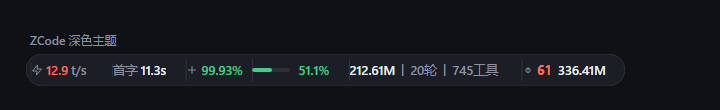
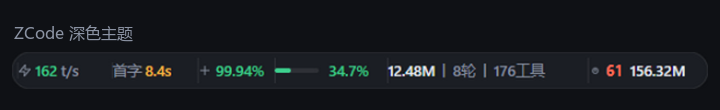
文档与版本：口径说明重写、示意图更新、版本号升到 1.1.0
- README「数据口径」重写速度与首字两段（纯生成速度口径、覆盖率精度、turn 级首字与
  两段拆分），新增「停滞时保留上一轮」；显示项表格与颜色阈值按新口径更新，因果链
  示例改用新数字。
- CHANGELOG 增 1.1.0 条目，按「速度改纯生成口径 / 停滞保留上一轮 / 视觉 / 测试」四节
  记录，并注明 inject-main.cjs 需重装、其余两文件热更新。
- docs 示意图（SVG + PNG，深/浅两版）数字更新为 v1.1 口径：
  162 t/s · 首字 8.4s · 缓存 99.94% · 上下文 34.7%（原图仍是端到端口径的 12.9 t/s，
  与实物不符）。PNG 由浏览器渲染更新后的 SVG 得到，构图与旧图一致。
- install.py / usage_mcp.py 版本号 1.0.0 → 1.1.0（安装器写入的 config.plugin_version
  与 MCP serverInfo 跟随）。

Changed region(s): [[0.1528, 0.5727, 0.9778, 0.7091], [0.0, 0.2455, 0.1833, 0.4364], [0.0, 0.5727, 0.1222, 0.7091]]

diff --git a/usage_mcp.py b/usage_mcp.py
@@ -92,7 +92,7 @@ def main():
                         "protocolVersion", PROTOCOL_VERSION
                     ),
                     "capabilities": {"tools": {}},
-                    "serverInfo": {"name": "Zcode-Status-TypeBar", "version": "1.0.0"},
+                    "serverInfo": {"name": "Zcode-Status-TypeBar", "version": "1.1.0"},
                 },
             )
         elif method == "tools/list":

diff --git a/install.py b/install.py
@@ -26,7 +26,7 @@ from pathlib import Path
 from typing import NoReturn
 
 PLUGIN_NAME = "Zcode-Status-TypeBar"
-PLUGIN_VERSION = "1.0.0"
+PLUGIN_VERSION = "1.1.0"
 PLUGIN_FILES = ("inject-main.cjs", "overlay.js", "zusage.py", "usage_mcp.py")
 INJECT_MARKER = "[zusage] load failed"
 

diff --git a/README.md b/README.md
@@ -1,15 +1,16 @@
 # Zcode-Status-TypeBar
 
 给 ZCode 桌面客户端用的本地 token 用量状态条：在聊天输入框正下方显示一条悬浮胶囊条，
-实时展示最近一次请求的速度与首字延迟、缓存命中、上下文占用、会话累计 token 与轮次、
-当前会话错误、今日合计。另附带一个只读 MCP 工具 `token_usage`，可以直接在对话里查询用量。
+实时展示本轮的生成速度与首字延迟、缓存命中、上下文占用、会话累计 token 与轮次、
+当前会话错误、今日合计；一轮结束后停滞时保留上一轮数据并标注相对时间。
+另附带一个只读 MCP 工具 `token_usage`，可以直接在对话里查询用量。
 
 <p align="center">
   <img src="docs/statusbar-dark.png" alt="深色主题下的状态条" width="100%">
   <img src="docs/statusbar-light.png" alt="浅色主题下的状态条" width="100%">
 </p>
 
-<p align="center"><sub>上图由本机真实数据渲染：速度 12.9 t/s、首字 11.3s、缓存命中 99.93%、上下文 51.1%</sub></p>
+<p align="center"><sub>上图为示意数据（深色 / 浅色主题）：生成速度 162 t/s、首字 8.4s、缓存命中 99.94%、上下文 34.7%</sub></p>
 
 Windows 客户端注入式工具，通过改写 ZCode 的 `app.asar` 生效。
 
@@ -91,16 +92,25 @@ ZCode 把每次模型请求的用量写进 `~/.zcode/cli/db/db.sqlite`。`zusage
 
 ## 数据口径：几个容易误读的地方
 
-**速度是端到端的。** `输出 tokens ÷ 该请求总耗时`，含首字等待与工具往返。它反映你的真实
-等待体感，数值比「纯生成速度」小。悬停里同时给出纯生成速度（首 token 之后到完成）做对照：
-两者差得远，就说明时间花在了首字而不是生成上。
+**速度是纯生成速度。** `输出 tokens ÷ 生成时长`，生成时长取 `first_token_at → completed_at`，
+只累加模型真正吐字的时间窗 —— 首字等待与工具往返不计入。这与 Claude Code 等 CLI agent 的
+tok/s 同口径。v1.0 用的是端到端口径（输出 ÷ 请求总耗时），二十秒级的首字等待和几十次工具
+往返全摊进分母，实测同一轮能低 2~13 倍（端到端 11.1 t/s vs 真实生成 151.3 t/s），看着像
+模型很慢。端到端值仍保留在悬停里做对照 —— 它回答的是另一个问题：这一轮总共等了多久才拿到这些字。
 
-> 上下文越大、输出通常越少。上下文几十万 token、输出只有几百时，分子小分母大，比值会
-> 系统性偏低，看起来「很慢」但纯生成速度并不低。
+> 精度：全库约 28% 的 completed 行没有 `first_token_at`（网关对部分小请求不写该列，缺失行
+> 的 output 都 ≤ 300），按可算行加权，output 覆盖率实测 85~97%；悬停里给出本轮的可算请求数
+> 与覆盖率。本轮所有请求都缺时间戳时退回端到端口径并明确标注，不让它冒充生成速度。
 
-**首字延迟用时间戳现算。** 客户端写 `time_to_first_token_ms` 列并不可靠 —— 实测约三分之一的
-completed 行该列为 NULL，直接读会频繁显示成横杠。改用 `first_token_at − started_at`，
-那列只作兜底。
+**首字是 turn 级的。** 从你发消息到屏幕上第一个字，含客户端准备段（读文件 / 拼上下文 /
+启动技能，实测常 6~9 秒）。悬停里拆成「模型首包 + 客户端准备」两段，便于分辨慢在服务端
+还是本地。取值优先 `turn_usage.time_to_first_token_ms`（实测 100% 填充，语义即
+`first_token_at − started_at`）；轮进行中该表还没落行时，退回本轮第一条请求现算并标注是近似值。
+
+**停滞时保留上一轮。** 一轮跑完超过 2 分钟没有新请求，条面照常显示上一轮的速度 / 首字 /
+缓存，末尾追加相对时间（如「5分钟前」）；客户端清空焦点会话（activeTaskId 置空）时，泵与
+渲染端各自兜底到该窗口最近会话，而不是退化成零值、把整项藏掉。相对时间按绝对时刻现算并定期
+自刷新，所以它自己会从「5分钟前」走到「8分钟前」。
 
 **缓存命中率保留两位小数。** 实测连续对话里命中率在 99.2%–99.98% 之间，99.968% 用
 `toFixed(0)` 或 `toFixed(1)` 都会变成「100%」—— 而命中 100% 在物理上不可能（每轮总有
@@ -231,24 +241,30 @@ python install.py --asar "D:\Apps\ZCode\resources\app.asar"
 
 | 条目 | 显示内容 | 悬停 |
 | --- | --- | --- |
-| 速度 · 首字 · 缓存 | 最近一次完成请求的输出速度（t/s）、首字延迟、缓存命中率 | 纯生成速度（首字之后）、单次耗时、命中/输入 token、模型名 |
+| 速度 · 首字 · 缓存 | 本轮生成速度（t/s）、首字延迟、缓存命中率；停滞时追加相对时间 | 可算请求数与输出覆盖率、端到端对照、模型首包 + 客户端准备拆分、命中/输入 token、模型名 |
 | 上下文 | 当前会话上下文占窗口的百分比 + 微进度条 | 已用 token / 窗口容量；超限被拒时红色闪烁并弹出提示 |
 | 会话累计 | 当前会话累计 tokens、轮数、工具调用次数 | input/output/cache read/思考、重试、代码变更行数 |
 | 会话错误 | 当前会话的失败次数 | 轮次报错 / 工具失败 / 重试分别计数，并按工具列出 |
 | 今日合计 | 今天所有会话的 token 消耗 | input/output/cache read、请求数、重试 |
 
-前四项的数值各带三档配色（绿 / 黄 / 红），阈值按端到端口径标定。
+第一项的三个数值与第四项各带三档配色（绿 / 黄 / 红），其余为中性色：
+
+- **速度**：≥100 t/s 绿 · 50–100 黄 · <50 红（按纯生成速度标定；主流模型实测中位 160–180 t/s）；
+- **首字**：≤5s 绿 · 5–15s 黄 · >15s 红；
+- **缓存命中**：≥90% 绿 · 50–90% 黄 · <50% 红。
 
 **第一项是因果链，并排看才能定位瓶颈：**
 
 ```
-缓存命中 99.93%  →  几乎不用重算上下文  →  首字 11.3s  →  端到端 12.9 t/s
+缓存命中 99.94%  →  几乎不用重算上下文  →  首字 8.4s  →  生成 162 t/s
 ```
 
-- 命中率正常但首字仍长 → 上下文本身太大（几十万 token），换长上下文模型或压缩会话才有用；
-- 命中率明显下降 → 首字必然被拖长，因为模型得现场重算整段上下文。
+- 命中率正常但首字仍长 → 上下文本身太大（几十万 token），换长上下文模型或压缩会话才有用
+  （实测首字与上下文总量正相关：13 万 token 约 5s，60 万 token 可到 30s+）；
+- 命中率明显下降 → 首字必然被拖长，因为模型得现场重算整段上下文；
+- 首字长但生成速度正常 → 时间花在等待而不是吐字，别把「等」当成「模型慢」。
 
-其余口径（端到端速度、两位小数、不含主动中断）见前文「数据口径」一节。
+其余口径（纯生成速度、两位小数、不含主动中断、停滞保留）见前文「数据口径」一节。
 
 子代理的逐个明细仍可通过 MCP 工具查询（`token_usage` 的 `session:<id前缀>` 与
 `workspace:<关键词>`），底栏不再单列子代理项。

diff --git a/CHANGELOG.md b/CHANGELOG.md
@@ -2,6 +2,47 @@
 
 本项目遵循 [语义化版本](https://semver.org/lang/zh-CN/)。
 
+## [1.1.0]
+
+底栏指标口径重定 + 停滞保留上一轮 + 视觉梳理。已安装用户更新文件即可（overlay.js 与
+zusage.py 由泵热更新）；`inject-main.cjs` 的改动需要重新运行 `install.bat` 生效。
+
+### 速度改纯生成口径（本次的主改动）
+
+- 速度从端到端（输出 ÷ 请求总耗时）改为**纯生成速度**（输出 ÷ 首 token 到完成的时长），
+  与 Claude Code 等 CLI agent 的 tok/s 同口径。旧口径把二十秒级的首字等待和几十次工具
+  往返全摊进分母，实测同一轮低 2~13 倍（端到端 11.1 t/s vs 真实生成 151.3 t/s），
+  看上去像模型很慢。
+- 逐请求的 `first_token_at` 约 28% 缺失（网关对部分小请求不写该列），改为**按可算行加权**
+  并返回 output 覆盖率（实测 85~97%），悬停里给出可算请求数与覆盖率；全部缺失时退回端到端
+  口径并明确标注，不让它冒充生成速度。
+- 首字改为 **turn 级**（你发消息 → 屏幕上第一个字，含客户端准备段），悬停里拆成
+  「模型首包 + 客户端准备」，便于分辨慢在服务端还是本地；轮进行中 `turn_usage` 还没落行时
+  退回本轮第一条请求现算并标注近似。
+- 阈值随口径重标：速度 ≥100 t/s 绿 · 50–100 黄 · <50 红；首字 ≤5s 绿 · 5–15s 黄 · >15s 红。
+
+### 停滞保留上一轮
+
+- 一轮完成后超过 2 分钟没有新请求，条面照常显示上一轮的速度 / 首字 / 缓存，末尾追加
+  相对时间（「5分钟前」）；此前长尾会话走到轻量快照路径时速度整项消失。
+- 轻量快照补上 `last` 数据块（单行索引查询 ~0.01ms，不破坏瘦身）；相对时间按绝对时刻
+  现算并每 15s 自刷新，会自己从「5分钟前」走到「8分钟前」。
+- 客户端在一轮结束时清空焦点会话（activeTaskId 置空），泵记住每窗口最近一次非空会话
+  兜底（`mine_idle` 标记），渲染端同款兜底 —— "停滞就什么都不显示"的两条路径都堵上。
+- 会话没有任何已完成请求时，第一项显示 `–` 占位而不是整项隐藏。
+
+### 视觉
+
+- 速度主数字单独加粗一档；首字数值按三档着色（原先只有速度与缓存有颜色）。
+- 停滞标注用弱化小字（`.ago`），与数据本身区分开。
+
+### 测试
+
+- 新增 `tests/render_test.js`：从 `overlay.js` 抽取真实渲染段（非副本）在 Node 里跑
+  真实 payload，覆盖活跃 / 停滞（含旧后端与绝对时刻两路）/ mine_idle / 空会话 / 旧后端
+  兼容 / 中英文 / 项开关共 10 个用例。语法检查测不出运行时错误（v31 变量遮蔽事故即如此），
+  这个脚本是那类问题的回归闸门。
+
 ## [1.0.0]
 
 首个公开版本。
